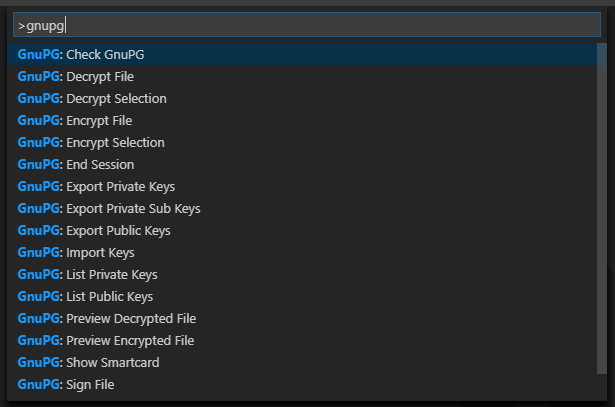
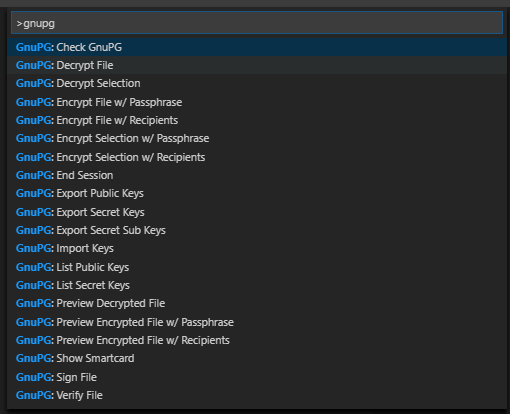
screenshots

Changed region(s): [[0.0, 0.0295, 1.0, 0.973]]

diff --git a/CHANGELOG.md b/CHANGELOG.md
@@ -1,5 +1,9 @@
 # Change Log
 
+## [0.0.9] - 2019-03-01
+
+- encryption with passphrase
+
 ## [0.0.8] - 2019-02-26
 
 - import/export of public/private keys
